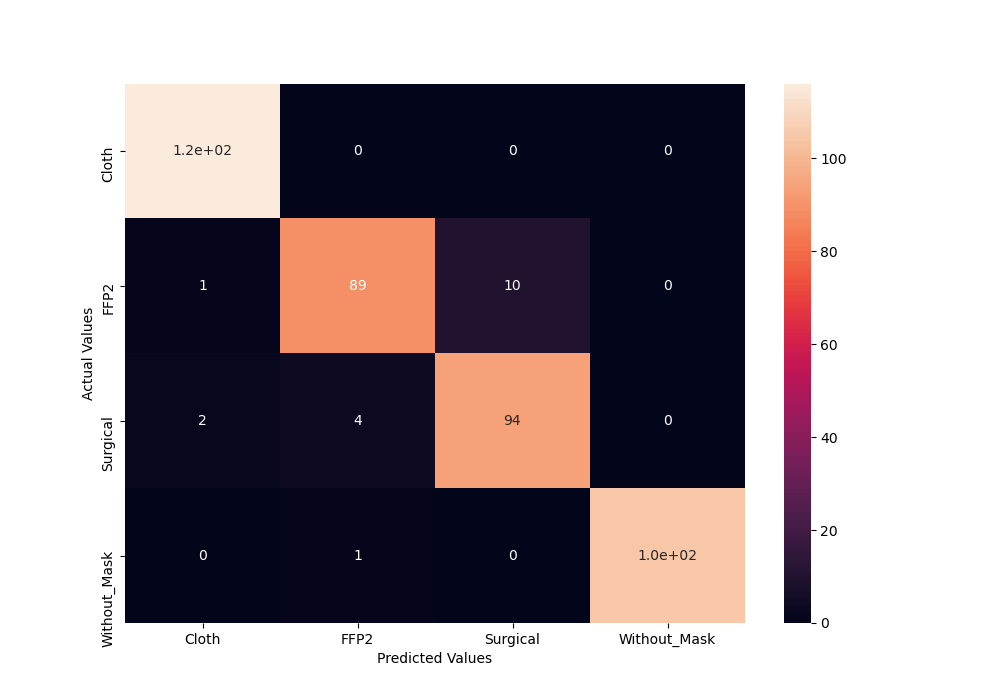
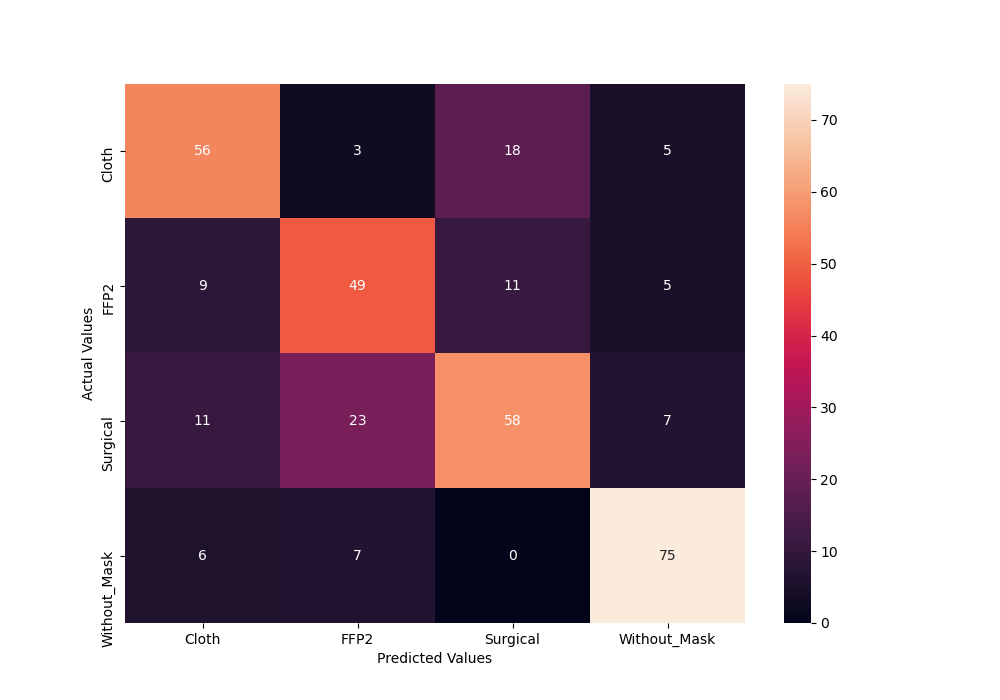
added model.pt

diff --git a/mainGPU.py b/mainGPU.py
@@ -1,6 +1,7 @@
 import os
 import numpy as np
 import matplotlib.pyplot as plt
+from torchvision.utils import make_grid
 import cv2
 import seaborn as sn
 import pandas as pd
@@ -17,7 +18,68 @@ import torch.nn as nn
 import torch.nn.functional as functional
 import torch.optim as optim
 import warnings
+import torch.nn.functional as F
 warnings.filterwarnings('ignore')
+
+class ImageClassificationBase(nn.Module):
+    
+    def training_step(self, batch):
+        images, labels = batch 
+        out = self(images)                  # Generate predictions
+        loss = F.cross_entropy(out, labels) # Calculate loss
+        return loss
+    
+    def validation_step(self, batch):
+        images, labels = batch 
+        out = self(images)                    # Generate predictions
+        loss = F.cross_entropy(out, labels)   # Calculate loss
+        acc = accuracy(out, labels)           # Calculate accuracy
+        return {'val_loss': loss.detach(), 'val_acc': acc}
+        
+    def validation_epoch_end(self, outputs):
+        batch_losses = [x['val_loss'] for x in outputs]
+        epoch_loss = torch.stack(batch_losses).mean()   # Combine losses
+        batch_accs = [x['val_acc'] for x in outputs]
+        epoch_acc = torch.stack(batch_accs).mean()      # Combine accuracies
+        return {'val_loss': epoch_loss.item(), 'val_acc': epoch_acc.item()}
+    
+    def epoch_end(self, epoch, result):
+        print("Epoch [{}], train_loss: {:.4f}, val_loss: {:.4f}, val_acc: {:.4f}".format(
+            epoch, result['train_loss'], result['val_loss'], result['val_acc']))
+
+class NaturalSceneClassification(ImageClassificationBase):
+    def __init__(self):
+        super().__init__()
+        self.network = nn.Sequential(
+            
+            nn.Conv2d(in_channels=3, out_channels=32, kernel_size=3, padding=1),
+            nn.BatchNorm2d(32),
+            nn.LeakyReLU(inplace=True),
+            nn.Conv2d(in_channels=32, out_channels=32, kernel_size=3, padding=1),
+            nn.BatchNorm2d(32),
+            nn.LeakyReLU(inplace=True),
+            nn.MaxPool2d(kernel_size=2, stride=2),
+
+            nn.Conv2d(in_channels=32, out_channels=64, kernel_size=3, padding=1),
+            nn.BatchNorm2d(64),
+            nn.LeakyReLU(inplace=True),
+            nn.Conv2d(in_channels=64, out_channels=64, kernel_size=3, padding=1),
+            nn.BatchNorm2d(64),
+            nn.LeakyReLU(inplace=True),
+            nn.MaxPool2d(kernel_size=2, stride=2),
+
+            nn.Conv2d(in_channels=64, out_channels=128, kernel_size=3, padding=1),
+            nn.BatchNorm2d(128),
+            nn.LeakyReLU(inplace=True),
+            nn.Conv2d(in_channels=128, out_channels=128, kernel_size=3, padding=1),
+            nn.BatchNorm2d(128),
+            nn.LeakyReLU(inplace=True),
+            nn.MaxPool2d(kernel_size=2, stride=2)
+        )
+    
+    def forward(self, xb):
+        return self.network(xb)
+
 
 
 data_dir = './FinalDataset'
@@ -26,16 +88,16 @@ def load_split_train_test(datadir, valid_size = .2):
     train_transforms = transforms.Compose([#transforms.RandomRotation(30),  # data augmentations are great
                                        #transforms.RandomResizedCrop(224),  # but not in this case of map tiles
                                        #transforms.RandomHorizontalFlip(),
-                                       transforms.Resize(224),
+                                       transforms.Resize(128),
                                        transforms.ToTensor(),
-                                       transforms.Normalize([0.485, 0.456, 0.406], # PyTorch recommends these but in this
-                                                            [0.229, 0.224, 0.225]) # case I didn't get good results
+                                       #transforms.Normalize([0.485, 0.456, 0.406], # PyTorch recommends these but in this
+                                       #                     [0.229, 0.224, 0.225]) # case I didn't get good results
                                        ])
 
-    test_transforms = transforms.Compose([transforms.Resize(224),
+    test_transforms = transforms.Compose([transforms.Resize(128),
                                       transforms.ToTensor(),
-                                      transforms.Normalize([0.485, 0.456, 0.406],
-                                                           [0.229, 0.224, 0.225])
+                                      #transforms.Normalize([0.485, 0.456, 0.406],
+                                      #                     [0.229, 0.224, 0.225])
                                       ])
 
     train_data = ImageFolder(datadir, transform=train_transforms)
@@ -57,12 +119,64 @@ trainloader, testloader = load_split_train_test(data_dir, .2)
 print(trainloader.dataset.classes)
 
 def display_img(img,label):
-    print(f"Label : {dataset.classes[label]}")
-    plt.imshow(image.numpy().transpose((1, 2, 0)))
+    print(f"Label : {trainloader.dataset.classes[label]}")
+    plt.imshow(img.permute(1,2,0))
+    plt.show()
 
 #display the first image in the dataset
-dataiter = iter(trainloader)
-images, labels = dataiter.next()
-display_img(images[0], labels[0])
+display_img(*trainloader.dataset[0])
+
+def show_batch(dl):
+    """Plot images grid of single batch"""
+    for images, labels in dl:
+        fig,ax = plt.subplots(figsize = (16,12))
+        ax.set_xticks([])
+        ax.set_yticks([])
+        ax.imshow(make_grid(images,nrow=16).permute(1,2,0))
+        plt.show()
+        break
+        
+show_batch(trainloader)
+
+def accuracy(outputs, labels):
+    _, preds = torch.max(outputs, dim=1)
+    return torch.tensor(torch.sum(preds == labels).item() / len(preds))
+
+  
+@torch.no_grad()
+def evaluate(model, val_loader):
+    model.eval()
+    outputs = [model.validation_step(batch) for batch in val_loader]
+    return model.validation_epoch_end(outputs)
+
+  
+def fit(epochs, lr, model, train_loader, val_loader, opt_func = torch.optim.SGD):
+    
+    history = []
+    optimizer = opt_func(model.parameters(),lr)
+    for epoch in range(epochs):
+        
+        model.train()
+        train_losses = []
+        for batch in train_loader:
+            loss = model.training_step(batch)
+            train_losses.append(loss)
+            loss.backward()
+            optimizer.step()
+            optimizer.zero_grad()
+            
+        result = evaluate(model, val_loader)
+        result['train_loss'] = torch.stack(train_losses).mean().item()
+        model.epoch_end(epoch, result)
+        history.append(result)
+    
+    return history
+
+    
+num_epochs = 30
+opt_func = torch.optim.Adam
+lr = 0.001#fitting the model on training data and record the result after each epoch
+model = NaturalSceneClassification()
+history = fit(num_epochs, lr, model, trainloader, testloader, opt_func)
 
 device = torch.device("cuda:0" if torch.cuda.is_available() else "cpu")
